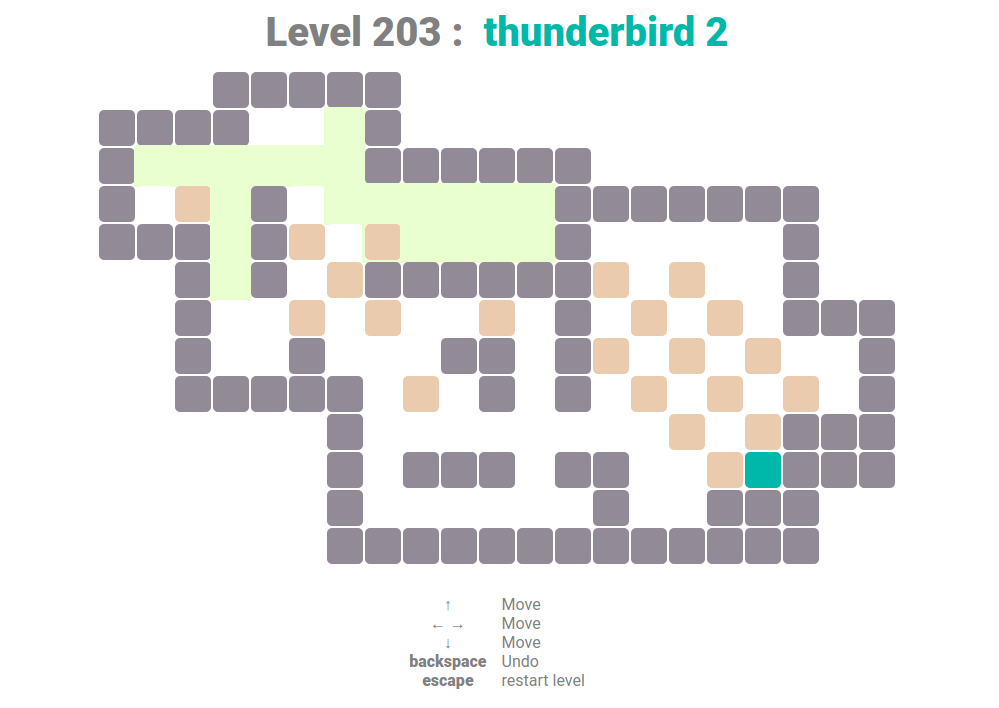
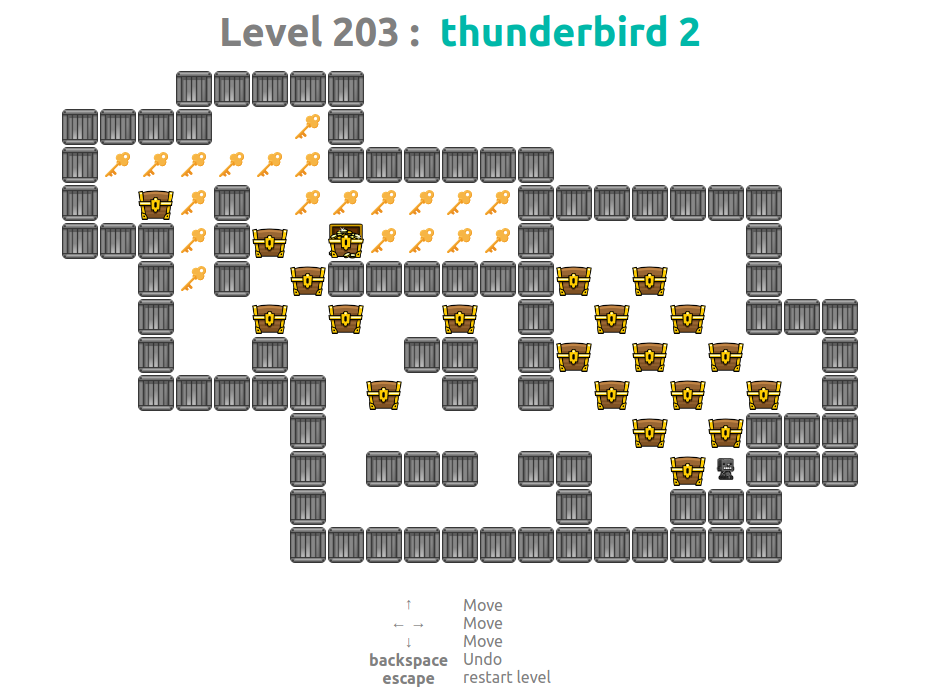
feat(img): add objective key img

Changed region(s): [[0.0625, 0.0, 0.9375, 0.8135], [0.375, 0.8436, 0.5938, 0.9943]]

diff --git a/src/components/sokoban.module.css b/src/components/sokoban.module.css
@@ -86,32 +86,28 @@
 }
 
 .element.wall {
-  /*  background-color: #928a97;*/
   background-image: url("../assets/wall.png");
   background-size: 100%;
 }
 
 .element.objective {
-  background-color: #eaffd0;
-  border-radius: 0px;
-  outline: solid #eaffd0;
+  background-image: url("../assets/key.svg");
+  background-size: 70%;
+  background-repeat: no-repeat;
+  background-position: center;
 }
 
 .element.box {
-  /*  background-color: #ebcbae;*/
   background-image: url("../assets/box-closed.png");
   background-size: 100%;
 }
 
 .element.boxjective {
-  background-color: #eaffd0;
-  border-radius: 0px;
-  outline: solid #eaffd0;
   background-image: url("../assets/box-opened.png");
   background-size: 100%;
 }
 
-.element.player {
+.element.player .element.playerJective {
   background-color: white;
 }
 
@@ -133,10 +129,4 @@
 .playerright {
   background-image: url("../assets/right.png");
   background-size: 100%;
-}
-
-.element.playerJective {
-  background-color: #eaffd0;
-  border-radius: 0px;
-  outline: solid #eaffd0;
 }
